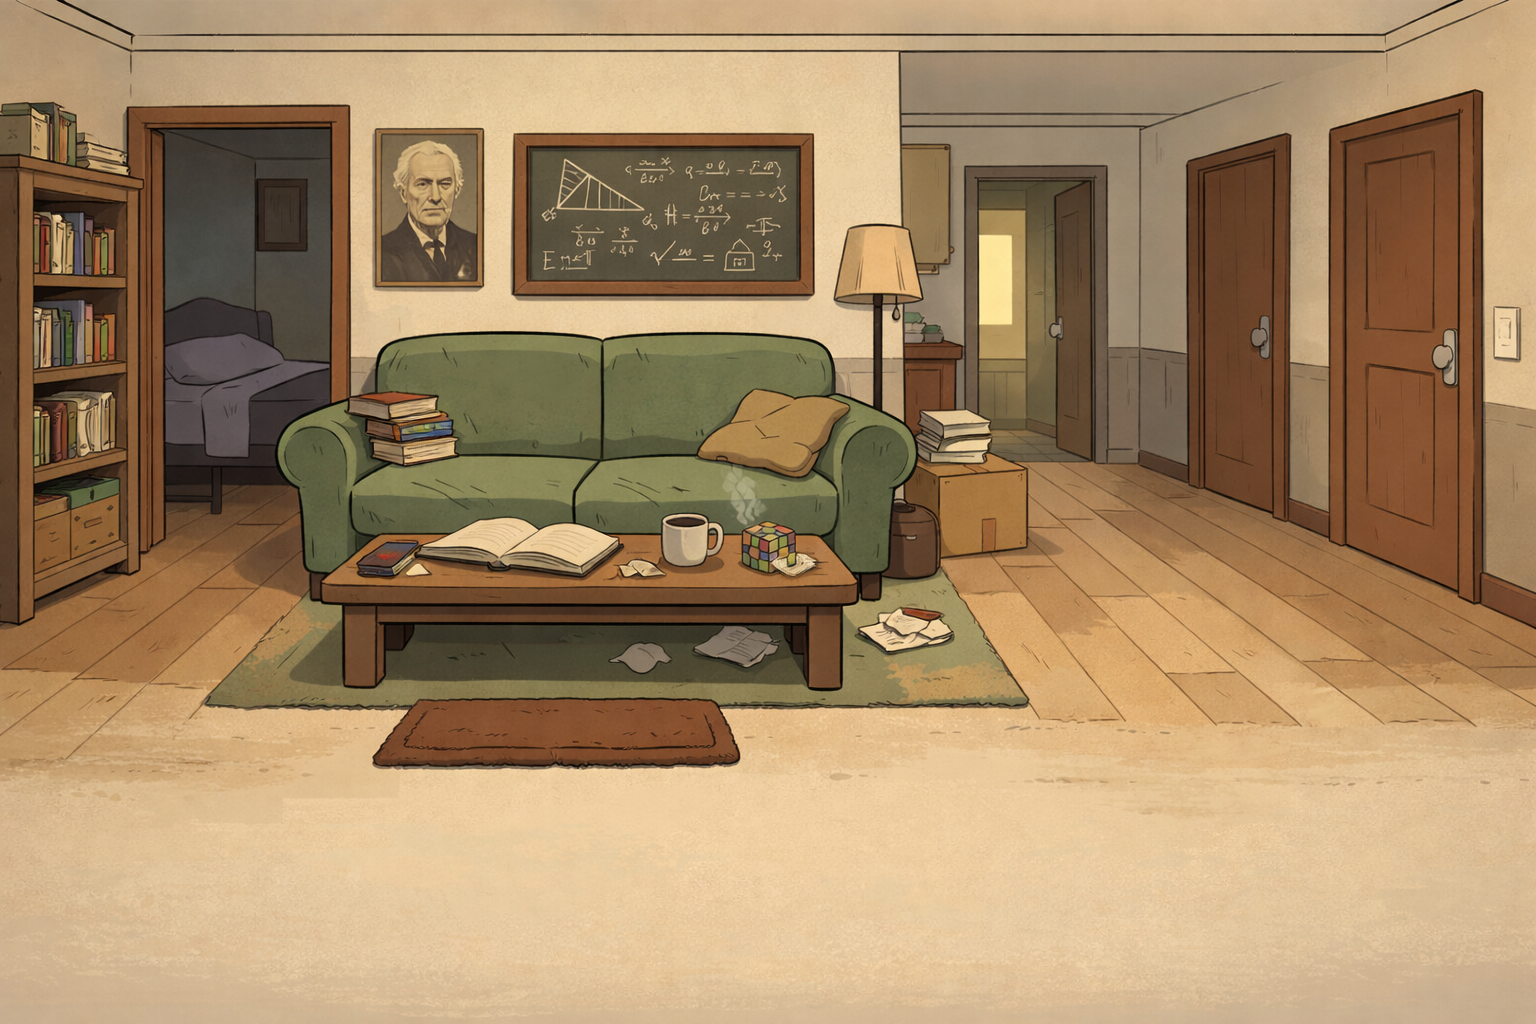
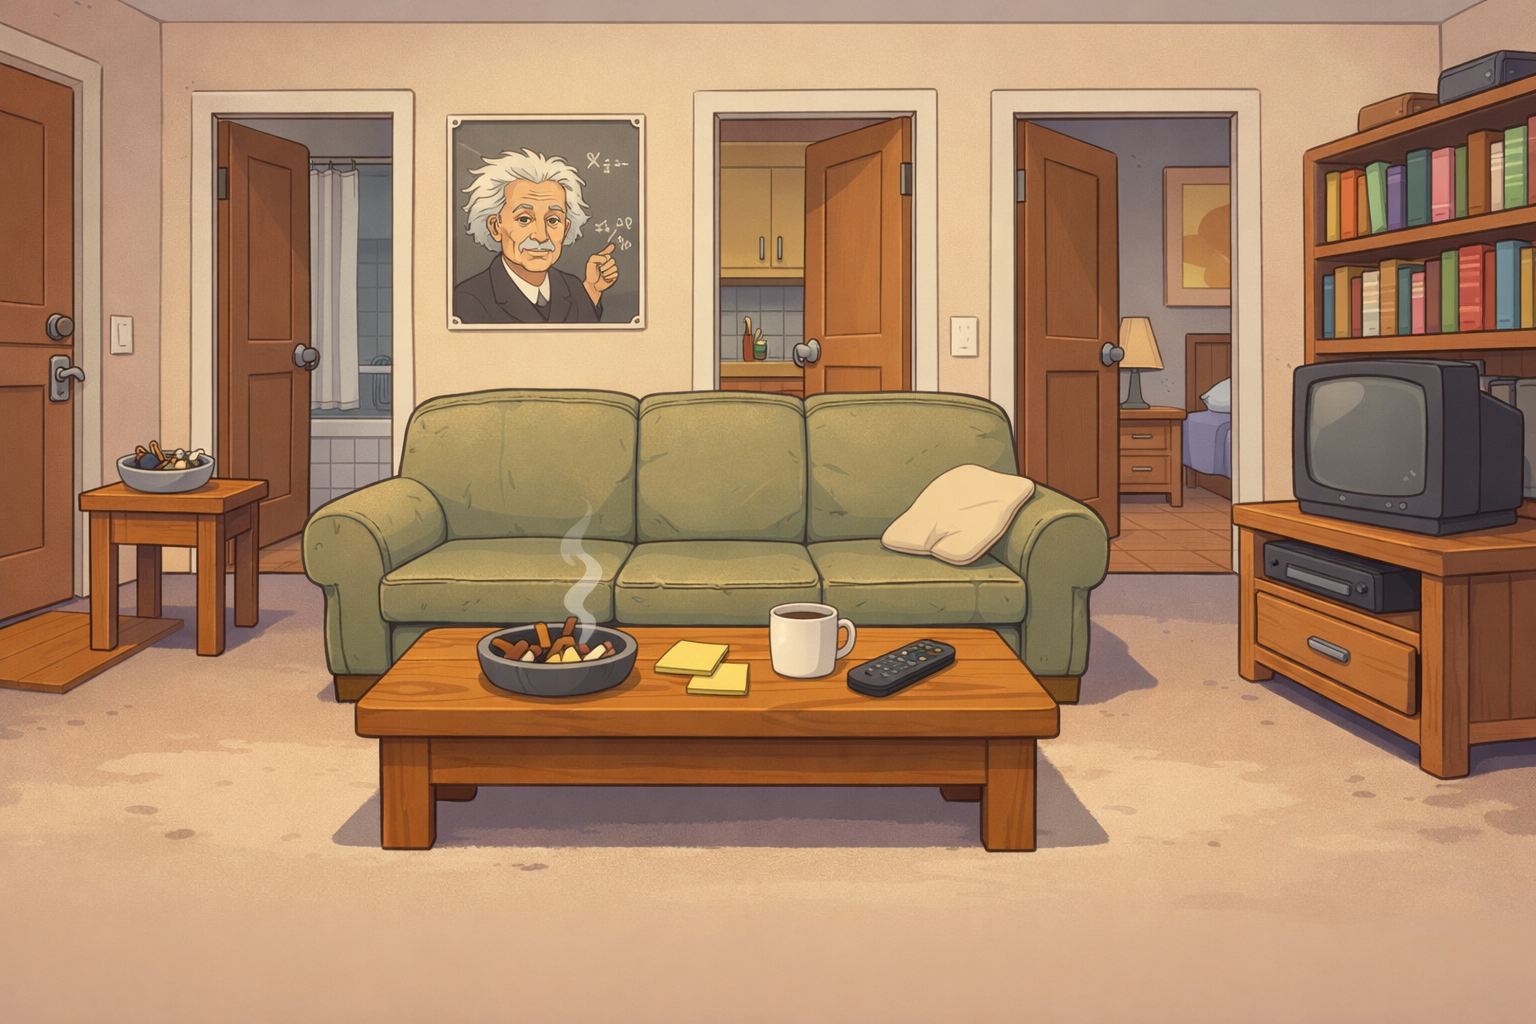
Backgrounds del Acto 1

diff --git a/game/scenes/piso_manana_salon.js b/game/scenes/piso_manana_salon.js
@@ -11,7 +11,7 @@ export const piso_manana_salon = {
     {
       id: "sofa",
       name: "Sofá",
-      hotspot: { x: 280, y: 240, w: 550, h: 160 },
+      hotspot: { x: 300, y: 300, w: 700, h: 160 },
       verbs: {
         look: {
           type: "say",
@@ -23,7 +23,7 @@ export const piso_manana_salon = {
     {
       id: "cenicero",
       name: "Cenicero",
-      hotspot: { x: 330, y: 420, w: 70, h: 60 },
+      hotspot: { x: 450, y: 500, w: 150, h: 240 },
       verbs: {
         look: {
           type: "say",
@@ -49,7 +49,7 @@ export const piso_manana_salon = {
     {
       id: "libros",
       name: "Libros",
-      hotspot: { x: 320, y: 290, w: 120, h: 80 },
+      hotspot: { x: 1220, y: 70, w: 220, h: 180 },
       verbs: {
         look: {
           type: "say",
@@ -61,7 +61,7 @@ export const piso_manana_salon = {
     {
       id: "einstein",
       name: "Póster de Einstein",
-      hotspot: { x: 340, y: 40, w: 120, h: 160 },
+      hotspot: { x: 410, y: 40, w: 190, h: 190 },
       verbs: {
         look: {
           type: "say",
@@ -73,7 +73,7 @@ export const piso_manana_salon = {
     {
       id: "puerta_piso",
       name: "Puerta del piso",
-      hotspot: { x: 1250, y: 50, w: 130, h: 380 },
+      hotspot: { x: 0, y: 20, w: 80, h: 420 },
       verbs: {
         look: {
           type: "say",
@@ -118,13 +118,13 @@ export const piso_manana_salon = {
       to: "piso_manana_bano",
       label: "Ir al baño",
       text: "El baño: espejo y verdad.",
-      hotspot: { x: 1100, y: 80, w: 110, h: 290 }
+      hotspot: { x:200, y: 40, w: 170, h: 290 }
     },
     {
       to: "piso_manana_dormitorio",
       label: "Ir al dormitorio",
       text: "El dormitorio: ropa, caos y cartera.",
-      hotspot: { x: 130, y: 40, w: 180, h: 390 }
+      hotspot: { x: 930, y: 40, w: 230, h: 300 }
     },
 
     // ✅ FIX: estaba en y=420 (fuera del escenario de 420px)
@@ -132,7 +132,7 @@ export const piso_manana_salon = {
       to: "piso_manana_cocina",
       label: "Ir a la cocina",
       text: "La cocina: supervivencia básica.",
-      hotspot: { x: 900, y: 90, w: 150, h: 260 }
+      hotspot: { x: 650, y: 30, w: 200, h: 260 }
     }
   ]
 };

diff --git a/game/scenes/piso_manana_bano.js b/game/scenes/piso_manana_bano.js
@@ -5,7 +5,8 @@
 export const piso_manana_bano = {
   id: "piso_manana_bano",
   title: "Baño",
-  subtitle: "El espejo no miente. A veces exagera.",
+  subtitle: "El espejo no miente. A veces exagera.", 
+  background: "assets/scenes/piso_manana_bano/background.png",
 
   objects: [
     {

diff --git a/game/scenes/piso_manana_dormitorio.js b/game/scenes/piso_manana_dormitorio.js
@@ -6,6 +6,7 @@ export const piso_manana_dormitorio = {
   id: "piso_manana_dormitorio",
   title: "Dormitorio",
   subtitle: "Desorden funcional. Como tu cabeza, pero con cajones.",
+   background: "assets/scenes/piso_manana_dormitorio/background.png",
 
   objects: [
     {

diff --git a/game/scenes/piso_manana_cocina.js b/game/scenes/piso_manana_cocina.js
@@ -6,6 +6,7 @@ export const piso_manana_cocina = {
   id: "piso_manana_cocina",
   title: "Cocina",
   subtitle: "Supervivencia básica con electrodomésticos cansados.",
+   background: "assets/scenes/piso_manana_cocina/background.png",
 
   objects: [
     {

diff --git a/game/scenes/portal.js b/game/scenes/portal.js
@@ -6,6 +6,7 @@ export const portal = {
   id: "portal",
   title: "Portal del edificio",
   subtitle: "El umbral entre tu casa y el juicio público.",
+   background: "assets/scenes/portal_manana/background.png",
 
   objects: [
     {
